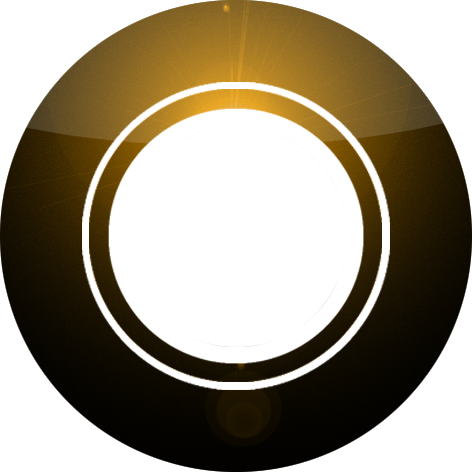
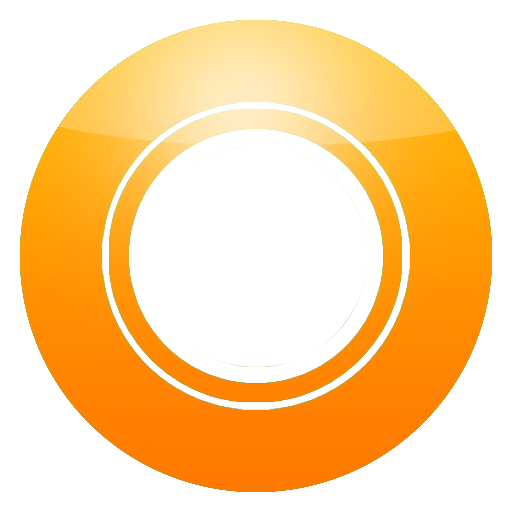
ubacene nove kugle

diff --git a/BINGO/Properties/Resources.Designer.cs b/BINGO/Properties/Resources.Designer.cs
@@ -63,16 +63,6 @@ namespace BINGO.Properties {
         /// <summary>
         ///   Looks up a localized resource of type System.Drawing.Bitmap.
         /// </summary>
-        internal static System.Drawing.Bitmap kuglica {
-            get {
-                object obj = ResourceManager.GetObject("kuglica", resourceCulture);
-                return ((System.Drawing.Bitmap)(obj));
-            }
-        }
-        
-        /// <summary>
-        ///   Looks up a localized resource of type System.Drawing.Bitmap.
-        /// </summary>
         internal static System.Drawing.Bitmap ljubicasta {
             get {
                 object obj = ResourceManager.GetObject("ljubicasta", resourceCulture);
